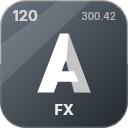
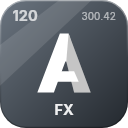
Engine packages 0.1.0-alpha.5 (#203)
* Engine packages 0.1.0-alpha.5

The packages' icons redrawn with a bevel that fades from light to dark down the sides; icons for the packages first
published in this version: Wayland, DBus, Content.Build and Engine.Templates. Unreleased becomes 0.1.0-alpha.5.

* An effect in the project's root namespace; the README's examples on packages that exist

The effects generator names the namespace from RootNamespace, falling back to the assembly name, as a .cs file is
placed - it took the assembly name, so MyApp.Effects.Glow in the README came out under the project's name. The README's
examples ask for Engine.Generators and Content.Build 0.1.0-alpha.5 and Slang 1.1.0; Wayland and DBus join its package
list.

* The effects generator as it was; the README says where an effect's class goes

An effect's class is in the assembly's name and the folders its .fx sits in - that is the rule, and the README now
says so instead of a root namespace. The generator change of the commit before is taken back.

* README: the effects example asks only for what the generator reads

RootNamespace leaves CompilerVisibleProperty - the generator names an effect's namespace from the assembly; ProjectDir
and AdamantiumSlangPath stay, and the text says what each is for.

---------

diff --git a/README.md b/README.md
@@ -27,6 +27,8 @@ drawn by one renderer in one process.
 | `Adamantium.MVVM` | View models with validation, sync and async commands |
 | `Adamantium.Win32` | Windows, messages, system metrics, cursors, Shell dialogs |
 | `Adamantium.MacOS` | Application, windows and cursors through a native app wrapper (not yet verified, see below) |
+| `Adamantium.Wayland` | Wayland client bindings: the protocols generated from their XML, over libwayland-client |
+| `Adamantium.DBus` | A D-Bus client: the session bus, method calls and signals, served objects |
 | `Adamantium.XInput` | XInput gamepads |
 | `Adamantium.GameInput` | Microsoft GameInput gamepads, with the native shim they need |
 | `Adamantium.Engine.Generators` | Source generator: a typed class for every `.fx` in the project |
@@ -70,16 +72,16 @@ beside it.
 
 ### Your own effects
 
-Every `.fx` file in a project becomes a class at build time: `Effects/Glow.fx` in a project with the root namespace
-`MyApp` gives `MyApp.Effects.Glow`, derived from `Effect`. The generator needs to see the files and to know where the
-Slang compiler is:
+Every `.fx` file in a project becomes a class at build time, in the assembly's name and the folders the file sits in:
+`Effects/Glow.fx` in an assembly named `MyApp` gives `MyApp.Effects.Glow`, derived from `Effect`. The generator needs
+to see the files, the project's folder to find those folders, and where the Slang compiler is:
 
 ```xml
 <ItemGroup>
-  <PackageReference Include="Adamantium.Engine.Generators" Version="0.1.0-alpha" PrivateAssets="all" />
-  <PackageReference Include="Adamantium.Vulkan.Slang" Version="1.0.11" GeneratePathProperty="true" PrivateAssets="all" />
+  <PackageReference Include="Adamantium.Engine.Generators" Version="0.1.0-alpha.5" PrivateAssets="all" />
+  <PackageReference Include="Adamantium.Vulkan.Slang" Version="1.1.0" GeneratePathProperty="true" PrivateAssets="all" />
   <AdditionalFiles Include="**\*.fx;**\*.fxh" />
-  <CompilerVisibleProperty Include="RootNamespace;ProjectDir;AdamantiumSlangPath" />
+  <CompilerVisibleProperty Include="ProjectDir;AdamantiumSlangPath" />
 </ItemGroup>
 
 <PropertyGroup>
@@ -100,7 +102,7 @@ references it, directly or through another, gets them in its output.
     <TargetFramework>net10.0</TargetFramework>
   </PropertyGroup>
   <ItemGroup>
-    <PackageReference Include="Adamantium.Content.Build" Version="0.1.0-alpha" />
+    <PackageReference Include="Adamantium.Content.Build" Version="0.1.0-alpha.5" />
   </ItemGroup>
 </Project>
 ```

diff --git a/CHANGELOG.md b/CHANGELOG.md
@@ -5,6 +5,8 @@ All packages share one version.
 
 ## Unreleased
 
+## 0.1.0-alpha.5 - 2026-11-03
+
 ### Added
 
 - `IGraphicsDevice` gives all a renderer needs of the device, so none has to reach for `GraphicsDevice`:
@@ -1160,6 +1162,12 @@ All packages share one version.
 
 ### Fixed
 
+- The README says where an effect's class is: in the assembly's name and the folders its `.fx` sits in, not in the
+  project's root namespace; its example makes visible only what the generator reads, `ProjectDir` and
+  `AdamantiumSlangPath`.
+- The README's examples name packages that exist: `Adamantium.Engine.Generators` and `Adamantium.Content.Build`
+  0.1.0-alpha.5 and `Adamantium.Vulkan.Slang` 1.1.0, which the generator loads; `Adamantium.Wayland` and
+  `Adamantium.DBus` are in its list of packages.
 - `AdamantiumCollection(params T[])` made no storage for its items and threw on the first one.
 - `TextLayout.Revision` moved on before the new glyphs were in place, so whoever read it then kept the old glyphs as
   the new revision's.
